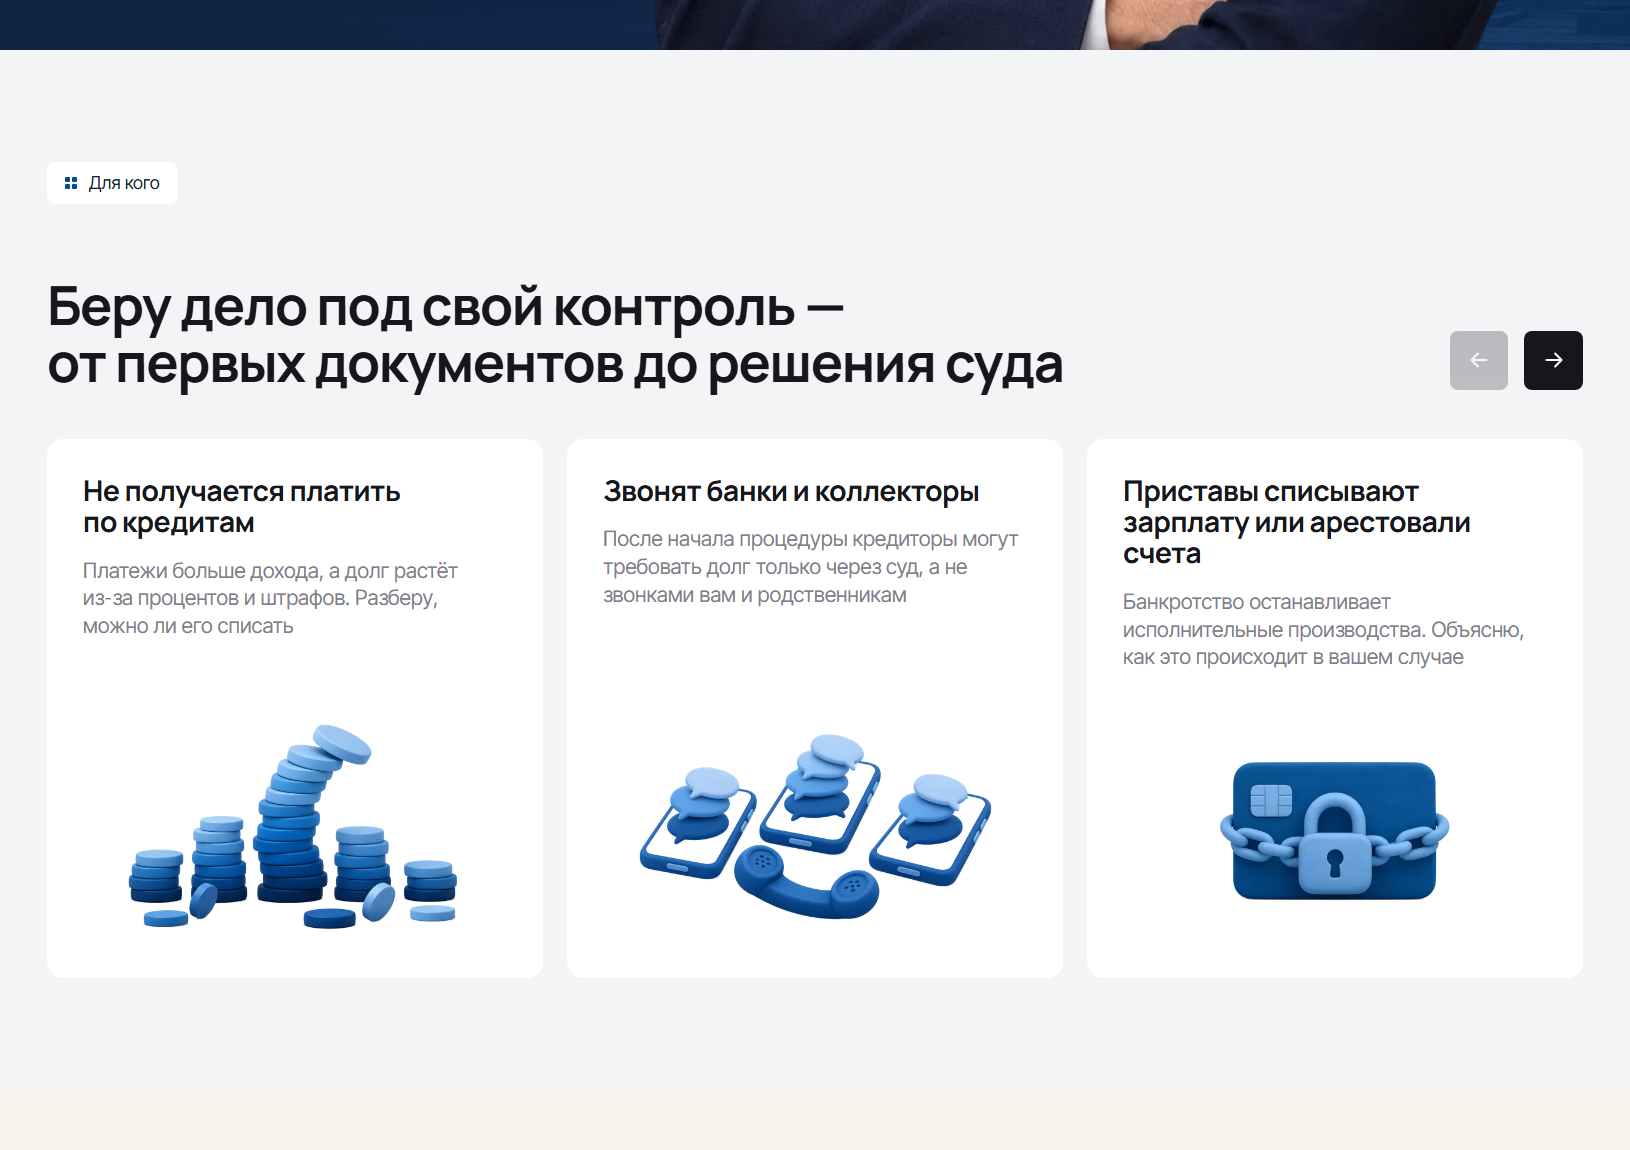
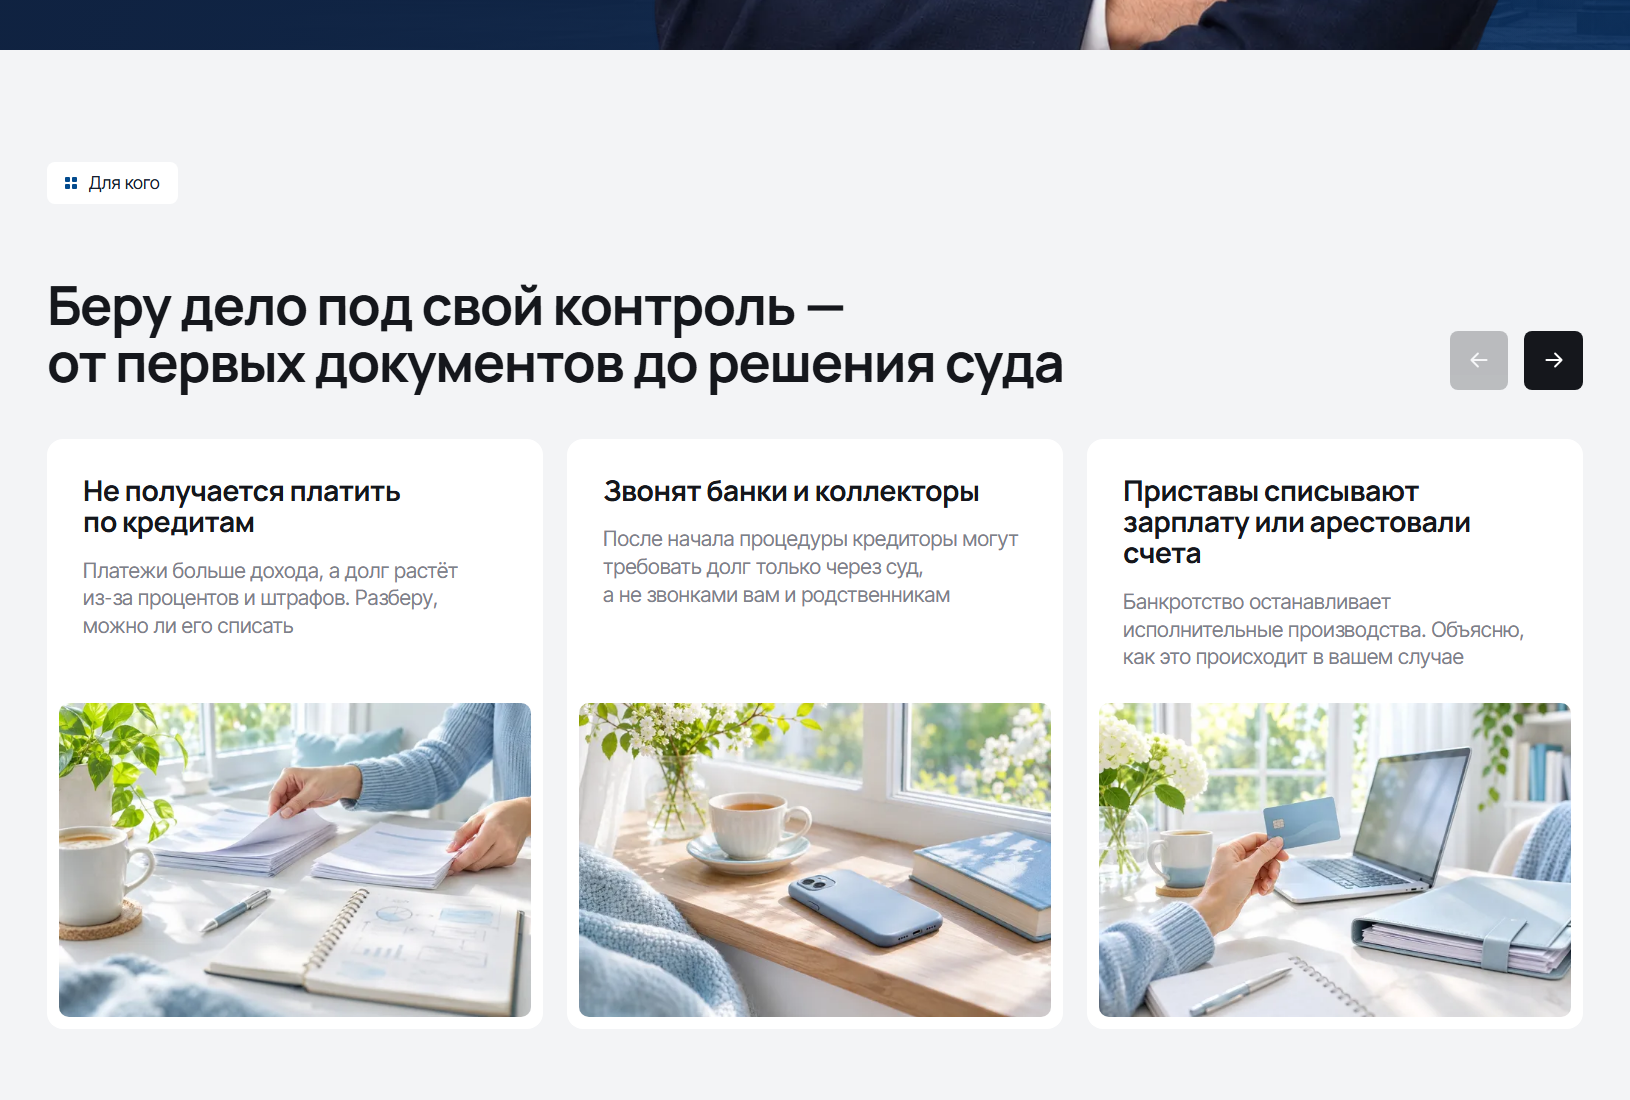
Блок «Для кого»: светлые фото ситуаций вместо 3D-иллюстраций

diff --git a/design/photos/fw-photos.html b/design/photos/fw-photos.html
@@ -1,0 +1,41 @@
+<!doctype html>
+<html lang="ru">
+<head>
+<meta charset="utf-8">
+<title>Для кого: фото</title>
+<link href="https://fonts.googleapis.com/css2?family=Inter+Tight:wght@400;500;600&family=Manrope:wght@600;700&display=swap" rel="stylesheet">
+<style>
+  * { box-sizing:border-box; margin:0; padding:0; }
+  body { font-family:'Inter Tight',system-ui,sans-serif; background:#f3f4f6; width:1630px; padding:72px 47px 88px; color:#15171c; }
+  .chip { display:inline-flex; align-items:center; gap:12px; padding:10px 18px; border-radius:8px; background:#fff; font-size:18px; }
+  .chip i { display:grid; grid-template-columns:5px 5px; gap:2px; } .chip b { width:5px; height:5px; border-radius:1px; background:#034B8E; }
+  .head { display:flex; justify-content:space-between; align-items:flex-end; margin-top:64px; }
+  h2 { font:700 54px/1.06 Manrope; letter-spacing:-.025em; }
+  .arrows { display:flex; gap:16px; } .arrows span { width:58px; height:58px; border-radius:8px; background:#15171c; display:grid; place-items:center; color:#fff; font-size:24px; } .arrows span:first-child { opacity:.25; }
+  .row { display:grid; grid-template-columns:repeat(3,1fr); gap:24px; margin-top:48px; }
+  .row + .row { margin-top:24px; }
+  .card { background:#fff; border-radius:16px; overflow:hidden; display:flex; flex-direction:column; }
+  .txt { padding:36px 36px 28px; }
+  h3 { font:700 28px/1.1 Manrope; letter-spacing:-.02em; }
+  p { margin-top:16px; font-size:19px; line-height:1.3; color:#7c818a; }
+  .ph { margin:auto 12px 12px; border-radius:10px; overflow:hidden; aspect-ratio:3/2; }
+  .ph img { width:100%; height:100%; object-fit:cover; display:block; }
+  body.b .ph { margin:auto 0 0; border-radius:0; }
+</style>
+</head>
+<body>
+  <span class="chip"><i><b></b><b></b><b></b><b></b></i>Для кого</span>
+  <div class="head"><h2>Беру дело под свой контроль —<br>от первых документов до решения суда</h2><div class="arrows"><span>←</span><span>→</span></div></div>
+  <div class="row">
+    <div class="card"><div class="txt"><h3>Не получается платить по&nbsp;кредитам</h3><p>Платежи больше дохода, а&nbsp;долг растёт из&#8209;за процентов и&nbsp;штрафов. Разберу, можно ли его списать</p></div><div class="ph"><img src="photo-1-credits.png"></div></div>
+    <div class="card"><div class="txt"><h3>Звонят банки и&nbsp;коллекторы</h3><p>После начала процедуры кредиторы могут требовать долг только через суд, а&nbsp;не&nbsp;звонками вам и&nbsp;родственникам</p></div><div class="ph"><img src="photo-2-calls.png"></div></div>
+    <div class="card"><div class="txt"><h3>Приставы списывают зарплату или арестовали счета</h3><p>Банкротство останавливает исполнительные производства. Объясню, как это происходит в&nbsp;вашем случае</p></div><div class="ph"><img src="photo-3-blocked.png"></div></div>
+  </div>
+  <div class="row">
+    <div class="card"><div class="txt"><h3>Остались долги после закрытия ИП</h3><p>Закрытие ИП не&nbsp;снимает долги: они остаются на&nbsp;вас лично. Их можно списать через банкротство</p></div><div class="ph"><img src="photo-4-ip.png"></div></div>
+    <div class="card"><div class="txt"><h3>Компании нечем платить по&nbsp;долгам</h3><p>Директор обязан вовремя подать на&nbsp;банкротство, иначе долги могут взыскать с&nbsp;него лично</p></div><div class="ph"><img src="photo-5-company.png"></div></div>
+    <div class="card"><div class="txt"><h3>Вас привлекают к&nbsp;субсидиарной ответственности</h3><p>Кредиторы требуют с&nbsp;вас лично долги компании. Оценю риски и&nbsp;буду защищать вас в&nbsp;суде</p></div><div class="ph"><img src="photo-6-subsidiary.png"></div></div>
+  </div>
+<script>document.body.className=(location.hash||'#a').slice(1)</script>
+</body>
+</html>
